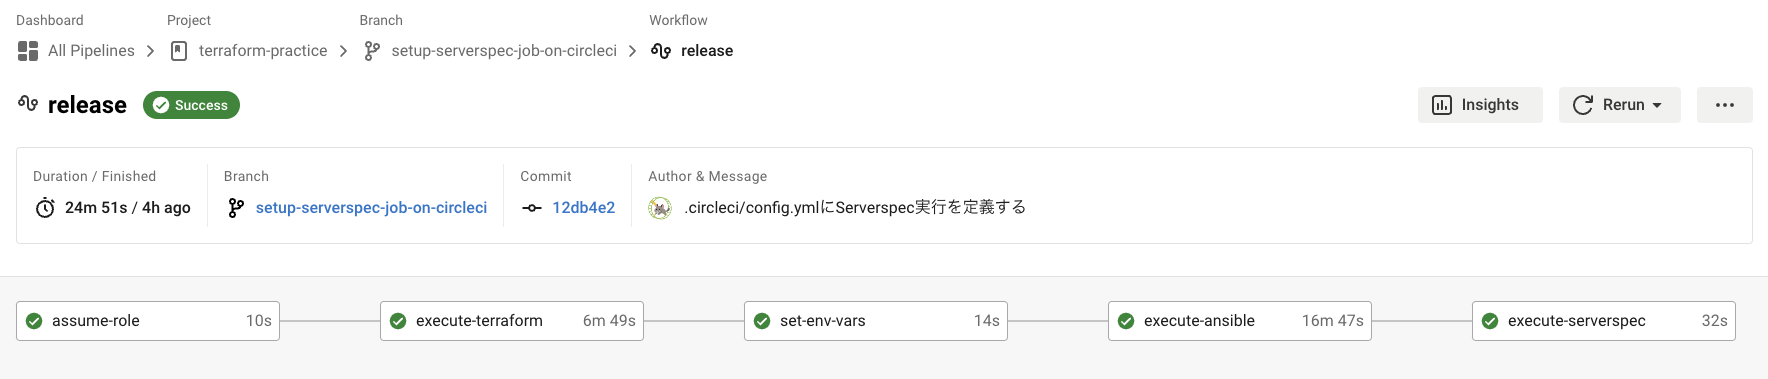
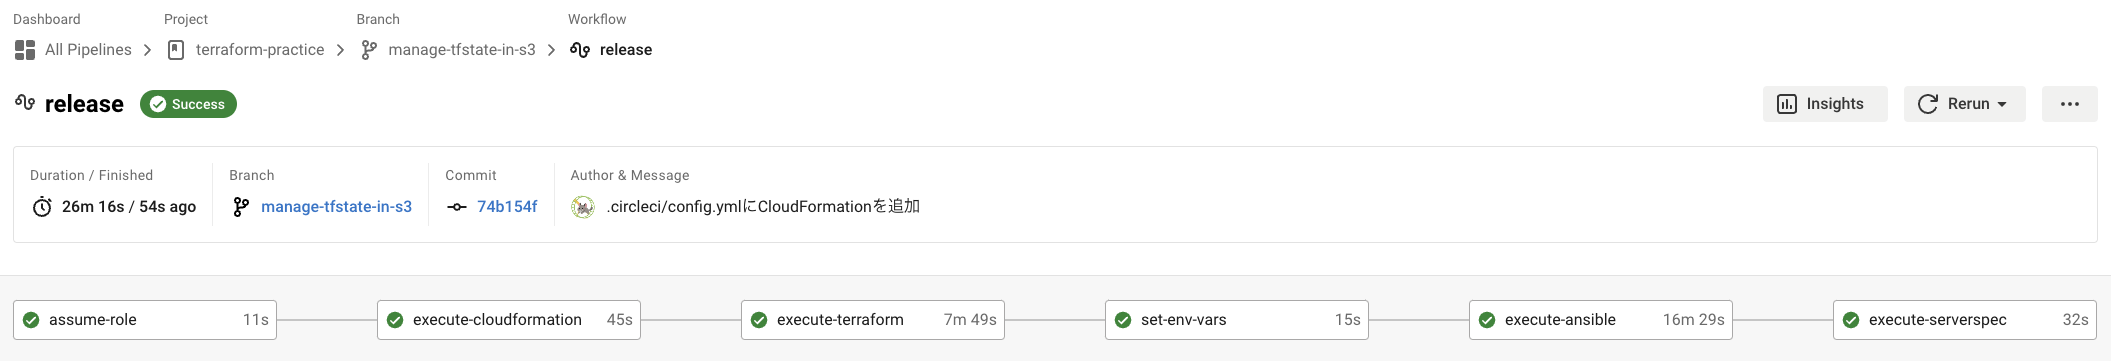
.tfstateファイルをS3に保管することについて追記

diff --git a/lecture13-Terraform-ver.md b/lecture13-Terraform-ver.md
@@ -23,7 +23,8 @@
 - [2. CircleCIへのTerraform実装手順](#2-CircleCIへのTerraform実装手順)
     - [2-1. 準備](#2-1-準備)
     - [2-2. CircleCIにTerraformを実装](#2-2-CircleCIにTerraformを実装)
-    - [2-3. CircleCIで遭遇したエラー](#2-3-CircleCIで遭遇したエラー)
+    - [2-3. tfstateファイルをS3バケットで管理する](#2-3-tfstateファイルをS3バケットで管理する)
+    - [2-4. CircleCIで遭遇したエラー](#2-4-CircleCIで遭遇したエラー)
 - [3. 成功画面](#3-成功画面)
     - [3-1. CircleCI成功画面](#3-1-CircleCI成功画面)
     - [3-2. アプリの正常動作確認](#3-2-アプリの正常動作確認)
@@ -317,7 +318,56 @@ gpg --no-tty --batch --passphrase "$GPG_PASSPHRASE" --pinentry-mode loopback --o
 
 [\[↑ 目次へ\]](#目次)
 
-## 2-3. CircleCIで遭遇したエラー
+## 2-3. tfstateファイルをS3バケットで管理する
+チーム開発の場合、.tfstateファイルはリモート環境（AWSの場合S3）で管理するのが主流とのことで、ここでも実装してみる。
+
+### 2-3-1. tfstateを管理するS3バケットをCloudFormationで事前に作成する。
+※ Teraformで作成しないのは、その.tfstateをどのように管理すべきかが問題となるため。
+
+- CloudFormation用ymlファイルを新規作成し、S3バケットを作成するコードを書く。
+    - 「パブリックアクセス」をブロックする。
+    - 「バケットのバージョニング」を有効化する。
+    - 「デフォルトの暗号化」を有効化する。
+
+（参考）  
+[tfstateはS3などの共有ストレージに保存する - Terraformのきほんと応用 - Zenn](https://zenn.dev/sway/articles/terraform_staple_sharestate)  
+[tfstateをローカルとS3間で移行してみた | Classmethod](https://dev.classmethod.jp/articles/tfstate-s3-local-migration-method/)  
+[【Terraform】tfstateファイルをAWSのS3・DynamoDBで管理する](https://blog-benri-life.com/terraform-state-aws-s3-dynamodb-backend/)  
+[TerraformのtfstateファイルをS3に配置する](https://open-groove.net/terraform/terraform-tfstate-backend-s3/)
+
+### 2-3-2. provider.tfを編集して、S3バケットで.tfstateファイルを管理するよう設定する。
+- buckendにS3を指定する。
+- ここではチーム開発を想定しているので、あわせてバージョン管理についても追記する。
+
+（terraform/provider.tf）
+```
+terraform {
+    required_providers {
+    aws = {
+        source  = "hashicorp/aws"
+        version = "~> 4.1.0"
+        }
+    }
+
+    backend "s3" {
+        bucket = "terraform-raisetech-s3-for-tfstate"
+        key    = "terraform.tfstate"
+        region = "ap-northeast-1"
+    }
+}
+```
+
+（参考）[Terraformバージョンを固定する - Terraformのきほんと応用 - Zenn](https://zenn.dev/sway/articles/terraform_staple_fixversion)
+
+### 2-3-3. CircleCIでCloudFormation作成について記述する。
+- .circleci/config.ymlを編集して、Terraformより先に、CloudFormationを実行するようにする。
+
+### 2-3-4. 無事.tfstateファイルがS3に保管された。
+![.tfstateファイルがS3に保管されている画面](images/aws_lecture13_Terraform_14tfstateinS3.png)
+
+[\[↑ 目次へ\]](#目次)
+
+## 2-4. CircleCIで遭遇したエラー
 <details>
 <summary><h4>2-3-1. Terraformを実行するdirectoryのエラー</h4></summary>
 working_directoryが使えない
@@ -498,15 +548,17 @@ echo ${GPG_PASSPHRASE} | gpg --passphrase-fd 0 --decrypt --batch --no-secmem-war
 ## 3. 成功画面
 ## 3-1. CircleCI成功画面
 ![CircleCIのWorkflow成功画面](images/aws_lecture13_Terraform_01CircleCIWorkflow.png)
-### 3-1-1. Terraform成功画面
+### 3-1-1. CloudFormation成功画面
+![CircleCIでのCloudFormation成功画面](images/aws_lecture13_Terraform_13CircleCICloudFormation.png)
+### 3-1-2. Terraform成功画面
 ![CircleCIでのTerraform成功画面1](images/aws_lecture13_Terraform_02CircleCITerraform1.png)
 ![CircleCIでのTerraform成功画面2](images/aws_lecture13_Terraform_03CircleCITerraform2.png)
-### 3-1-2. 環境変数セット成功画面
+### 3-1-3. 環境変数セット成功画面
 ![CircleCIでの環境変数セット成功画面](images/aws_lecture13_Terraform_04CircleCISetEnvVars.png)
-### 3-1-3. Ansible成功画面
+### 3-1-4. Ansible成功画面
 ![CircleCIでのAnsible成功画面1](images/aws_lecture13_Terraform_05CircleCIAnsiible1.png)
 ![CircleCIでのAnsible成功画面2](images/aws_lecture13_Terraform_06CircleCIAnsiible2.png)
-### 3-1-4. Serverspec成功画面
+### 3-1-5. Serverspec成功画面
 ![CircleCIでのServerspec成功画面](images/aws_lecture13_Terraform_07CircleCIServerspec.png)
 
 [\[↑ 目次へ\]](#目次)
